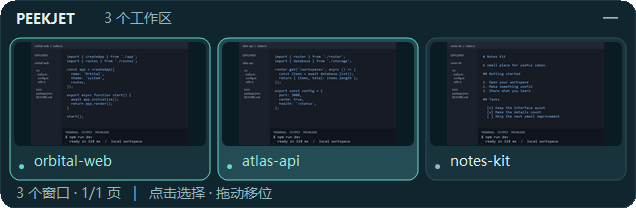
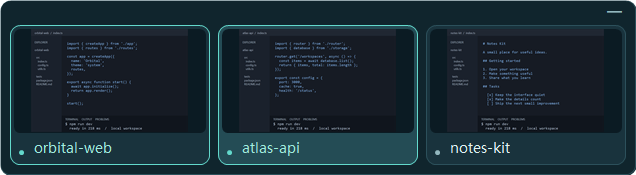
feat: release v0.1.1 with a compact dock and smoother corners

diff --git a/Program.cs b/Program.cs
@@ -188,10 +188,10 @@ namespace PeekJet
         private Rectangle layoutWorkArea;
         private IntPtr followedWindow;
         private float scale = 1f;
+        private bool nativeCorners;
+        internal int CornerRadius { get { return S(nativeCorners ? 8 : 12); } }
         private Rectangle previousButton, nextButton, hideButton;
         private ToolTip tooltip = new ToolTip();
-        private string status = "";
-        private DateTime statusUntil;
         private Icon appIcon;
         private readonly bool testing;
 
@@ -245,10 +245,11 @@ namespace PeekJet
         {
             base.OnHandleCreated(e);
             if (!testing) hotkeyRegistered = Native.RegisterHotKey(Handle, 1, 0x4003, (uint)Keys.V);
-            // The explicit window region owns the corner shape. Do not apply a second,
-            // differently sized DWM rounding pass to the same layered window.
-            int corners = 1;
-            Native.DwmSetWindowAttribute(Handle, 33, ref corners, 4);
+            // A GDI window region is a binary mask and cannot antialias its edge.
+            // Uniform window opacity still allows DWM to composite smooth corners.
+            int corners = 2; // DWMWCP_ROUND (Windows 11).
+            nativeCorners = Native.DwmSetWindowAttribute(Handle, 33, ref corners, 4) == 0;
+            UpdateCornerRegion();
             int dark = palette == null || !palette.Light ? 1 : 0;
             Native.DwmSetWindowAttribute(Handle, 20, ref dark, 4);
             Native.SetClickThrough(Handle, !SelectionEnabled);
@@ -380,8 +381,20 @@ namespace PeekJet
         protected override void OnSizeChanged(EventArgs e)
         {
             base.OnSizeChanged(e);
+            UpdateCornerRegion();
+        }
+        private void UpdateCornerRegion()
+        {
             if (ClientSize.Width < 2 || ClientSize.Height < 2) return;
-            using (var path = ThemeDrawing.Rounded(ClientRectangle, (int)Math.Round(12 * Math.Max(1, scale))))
+            // Setting any region disables the compositor's antialiased corners.
+            if (nativeCorners)
+            {
+                var previous = Region;
+                Region = null;
+                if (previous != null) previous.Dispose();
+                return;
+            }
+            using (var path = ThemeDrawing.Rounded(ClientRectangle, CornerRadius))
             {
                 var previous = Region;
                 Region = new Region(path);
@@ -486,23 +499,28 @@ namespace PeekJet
             layoutWorkArea = area;
             bool vertical = dockEdge == DockEdge.Left || dockEdge == DockEdge.Right;
             int margin = S(8), gap = S(6), width = S(preferredWidth);
-            int headerHeight = S(30), footerHeight = S(22);
+            int headerHeight = S(20), footerHeight = S(8);
             int usable = Math.Max(S(160), area.Width - S(32));
             width = Math.Min(width, usable - 2 * margin);
-            width = Math.Min(width, Math.Max(S(60), (int)((area.Height - S(20) - headerHeight - footerHeight - S(24)) * 16.0 / 9.0)));
+            width = Math.Min(width, Math.Max(S(60), (int)((area.Height - S(20) - headerHeight - footerHeight - S(22)) * 16.0 / 9.0)));
             int previewHeight = (int)(width * 9.0 / 16.0);
-            int tileHeight = previewHeight + S(24);
+            int tileHeight = previewHeight + S(22);
             capacity = vertical ? Math.Max(1, Math.Min(5, (area.Height - S(20) - headerHeight - footerHeight + gap) / (tileHeight + gap))) :
                 Math.Max(1, Math.Min(5, (usable - margin * 2 + gap) / (width + gap)));
+            if (vertical && windows.Count > capacity)
+            {
+                footerHeight = S(22);
+                capacity = Math.Max(1, Math.Min(5, (area.Height - S(20) - headerHeight - footerHeight + gap) / (tileHeight + gap)));
+            }
             int maxPage = Math.Max(0, (windows.Count - 1) / capacity);
             page = Math.Min(page, maxPage);
             int count = Math.Min(capacity, Math.Max(0, windows.Count - page * capacity));
             ClientSize = vertical ? new Size(margin * 2 + width, headerHeight + count * tileHeight + Math.Max(0, count - 1) * gap + footerHeight) :
                 new Size(margin * 2 + count * width + Math.Max(0, count - 1) * gap, headerHeight + tileHeight + footerHeight);
             bool hasPages = windows.Count > capacity;
-            previousButton = !hasPages ? Rectangle.Empty : vertical ? new Rectangle(S(5), Height - footerHeight, S(24), S(22)) : new Rectangle(ClientSize.Width - S(88), S(1), S(24), S(27));
-            nextButton = !hasPages ? Rectangle.Empty : vertical ? new Rectangle(Width - S(29), Height - footerHeight, S(24), S(22)) : new Rectangle(ClientSize.Width - S(60), S(1), S(24), S(27));
-            hideButton = new Rectangle(ClientSize.Width - S(32), S(1), S(24), S(27));
+            previousButton = !hasPages ? Rectangle.Empty : vertical ? new Rectangle(S(5), Height - footerHeight, S(24), S(22)) : new Rectangle(ClientSize.Width - S(76), S(1), S(22), S(18));
+            nextButton = !hasPages ? Rectangle.Empty : vertical ? new Rectangle(Width - S(29), Height - footerHeight, S(24), S(22)) : new Rectangle(ClientSize.Width - S(52), S(1), S(22), S(18));
+            hideButton = new Rectangle(ClientSize.Width - S(28), S(1), S(22), S(18));
             for (int i = 0; i < count; i++)
             {
                 var tile = new PreviewTile { Window = windows[page * capacity + i] };
@@ -782,7 +800,11 @@ namespace PeekJet
             hoveredControl = nextControl;
             hovered = index;
             tooltip.Hide(this);
-            if (index >= 0 && !testing) tooltip.Show(Tiles[index].Window.Title + "\n点击切换到此窗口", this, e.X, e.Y - S(46), 4000);
+            if (!testing)
+            {
+                string detail = index >= 0 ? Tiles[index].Window.Title : nextControl == 0 ? "上一页" : nextControl == 1 ? "下一页" : nextControl == 2 ? "隐藏" : "";
+                if (detail.Length > 0) tooltip.Show(detail, this, e.X, e.Y - S(34), 4000);
+            }
             Invalidate();
         }
         private void OnPointerUp(object sender, MouseEventArgs e)
@@ -799,8 +821,7 @@ namespace PeekJet
             tooltip.Hide(this);
             if (!Windows.Activate(tile.Window.Handle))
             {
-                status = "切换未成功，请重试；管理员窗口可能需要相同权限";
-                statusUntil = DateTime.Now.AddSeconds(5);
+                if (!testing) tooltip.Show("暂时无法切换，请重试", this, e.X, e.Y - S(30), 3000);
             }
             RefreshWindows();
         }
@@ -812,23 +833,13 @@ namespace PeekJet
             g.SmoothingMode = SmoothingMode.AntiAlias;
             g.PixelOffsetMode = PixelOffsetMode.HighQuality;
             if (palette == null) return;
-            ThemeDrawing.Fill(g, ClientRectangle, S(12), palette.Surface);
-            ThemeDrawing.Stroke(g, ClientRectangle, S(12), palette.Border, 1);
-            bool crowdedHeader = windows.Count > capacity && dockEdge != DockEdge.Left && dockEdge != DockEdge.Right && Width < S(270);
-            if (!crowdedHeader)
+            g.Clear(palette.Surface);
+            ThemeDrawing.Stroke(g, ClientRectangle, CornerRadius, palette.Border, 1);
+            if (SelectionEnabled)
             {
-                if (Width >= S(90)) TextRenderer.DrawText(g, Width < S(270) ? "PJ" : "PEEKJET", brandFont, new Rectangle(S(10), S(1), S(60), S(27)), palette.Text, TextFormatFlags.VerticalCenter);
-            }
-            // Leave room for controls even on a narrow, single-card dock.
-            if (Width >= S(320)) TextRenderer.DrawText(g, windows.Count + " 个工作区", smallFont, new Rectangle(S(80), S(2), S(90), S(25)), palette.Muted, TextFormatFlags.VerticalCenter);
-            DrawButton(g, previousButton, "\uE76B", page > 0, 0);
-            DrawButton(g, nextButton, "\uE76C", (page + 1) * capacity < windows.Count, 1);
-            DrawButton(g, hideButton, "\uE921", true, 2);
-            if (windows.Count == 0)
-            {
-                TextRenderer.DrawText(g, "等待 VS Code 窗口", titleFont, new Rectangle(S(20), S(59), Width - S(40), S(25)), palette.Text, TextFormatFlags.HorizontalCenter);
-                TextRenderer.DrawText(g, "打开多个工作区以开始预览", smallFont, new Rectangle(S(14), S(93), Width - S(28), S(24)), palette.Muted, TextFormatFlags.HorizontalCenter | TextFormatFlags.EndEllipsis);
-                return;
+                DrawButton(g, previousButton, "\uE76B", page > 0, 0);
+                DrawButton(g, nextButton, "\uE76C", (page + 1) * capacity < windows.Count, 1);
+                DrawButton(g, hideButton, "\uE921", true, 2);
             }
             for (int i = 0; i < Tiles.Count; i++)
             {
@@ -847,19 +858,28 @@ namespace PeekJet
                     g.DrawImage(tile.ExampleImage, new Rectangle(tile.Preview.X + (tile.Preview.Width - imageWidth) / 2, tile.Preview.Y + (tile.Preview.Height - imageHeight) / 2, imageWidth, imageHeight));
                 }
                 else if (tile.Thumbnail == IntPtr.Zero)
-                    TextRenderer.DrawText(g, "暂时无法预览", smallFont, tile.Preview, palette.Muted, TextFormatFlags.HorizontalCenter | TextFormatFlags.VerticalCenter | TextFormatFlags.EndEllipsis);
+                    TextRenderer.DrawText(g, "\uE91B", iconFont, tile.Preview, palette.Muted, TextFormatFlags.HorizontalCenter | TextFormatFlags.VerticalCenter);
                 string title = tile.Window.ProjectName;
-                using (var brush = new SolidBrush(focused ? palette.Accent : palette.Muted))
-                    g.FillEllipse(brush, tile.Bounds.X + S(7), tile.Bounds.Bottom - S(13), S(4), S(4));
+                if (tile.Window.Minimized)
+                {
+                    using (var pen = new Pen(palette.Muted)) g.DrawEllipse(pen, tile.Bounds.X + S(7), tile.Bounds.Bottom - S(12), S(4), S(4));
+                }
+                else using (var brush = new SolidBrush(focused ? palette.Accent : palette.Muted))
+                    g.FillEllipse(brush, tile.Bounds.X + S(7), tile.Bounds.Bottom - S(12), S(4), S(4));
                 var label = new Rectangle(tile.Bounds.X + S(16), tile.Preview.Bottom + S(2), tile.Bounds.Width - S(22), S(20));
-                if (tile.Window.Minimized) { title = "[已最小化] " + title; }
                 TextRenderer.DrawText(g, title, titleFont, label, focused ? palette.AccentText : palette.Text, TextFormatFlags.EndEllipsis | TextFormatFlags.VerticalCenter | TextFormatFlags.SingleLine | TextFormatFlags.NoPrefix);
             }
             bool vertical = dockEdge == DockEdge.Left || dockEdge == DockEdge.Right;
-            string hint = Width < S(200) ? (SelectionEnabled ? "点击 / 拖动" : "停稳 250ms") : (SelectionEnabled ? "点击选择 · 拖动移位" : "停稳 0.25 秒可选择");
-            string footer = DateTime.Now < statusUntil ? status : Width < S(400) ? hint : string.Format("{0} 个窗口 · {1}/{2} 页   |   {3}", windows.Count, page + 1, Math.Max(1, (windows.Count + capacity - 1) / capacity), hint);
-            if (vertical && windows.Count > capacity) footer = string.Format("{0}/{1}", page + 1, (windows.Count + capacity - 1) / capacity);
-            TextRenderer.DrawText(g, footer, smallFont, new Rectangle(vertical && windows.Count > capacity ? S(30) : S(10), Height - S(22), Width - (vertical && windows.Count > capacity ? S(60) : S(20)), S(20)), palette.Muted, TextFormatFlags.EndEllipsis | TextFormatFlags.VerticalCenter | (vertical ? TextFormatFlags.HorizontalCenter : TextFormatFlags.Default));
+            int pages = (windows.Count + capacity - 1) / capacity;
+            if (pages > 1)
+            {
+                int dots = Math.Min(7, pages), startPage = Math.Max(0, Math.Min(page - dots / 2, pages - dots));
+                int startX = (Width - dots * S(7) + S(3)) / 2;
+                int dotY = vertical ? Height - S(12) : Height - S(5);
+                for (int i = 0; i < dots; i++)
+                    using (var brush = new SolidBrush(startPage + i == page ? palette.Accent : palette.Border))
+                        g.FillEllipse(brush, startX + i * S(7), dotY, S(3), S(3));
+            }
             if (!SelectionEnabled && hoverStarted >= 0)
             {
                 int progress = (int)((Width - S(24)) * Math.Min(1.0, (double)hoverElapsed / HoverDelayMilliseconds));

diff --git a/ThemeGallery.cs b/ThemeGallery.cs
@@ -50,14 +50,21 @@ namespace PeekJet
                         using (var screenshot = new Bitmap(dock.Width, dock.Height))
                         {
                             dock.DrawToBitmap(screenshot, new Rectangle(Point.Empty, dock.Size));
-                            using (var g = Graphics.FromImage(screenshot))
-                            using (var shape = dock.Region.Clone())
-                            using (var corners = new Region(new Rectangle(Point.Empty, dock.Size)))
+                            // DrawToBitmap does not include the DWM corner mask. Apply
+                            // fractional edge coverage instead of a jagged GDI region.
+                            using (var mask = new Bitmap(dock.Width, dock.Height))
                             {
-                                corners.Exclude(shape);
-                                g.SetClip(corners, System.Drawing.Drawing2D.CombineMode.Replace);
-                                g.CompositingMode = System.Drawing.Drawing2D.CompositingMode.SourceCopy;
-                                using (var transparent = new SolidBrush(Color.Transparent)) g.FillRectangle(transparent, new Rectangle(Point.Empty, dock.Size));
+                                using (var g = Graphics.FromImage(mask))
+                                {
+                                    g.SmoothingMode = System.Drawing.Drawing2D.SmoothingMode.AntiAlias;
+                                    ThemeDrawing.Fill(g, new Rectangle(Point.Empty, dock.Size), dock.CornerRadius, Color.White);
+                                }
+                                for (int y = 0; y < screenshot.Height; y++)
+                                    for (int x = 0; x < screenshot.Width; x++)
+                                    {
+                                        int alpha = mask.GetPixel(x, y).A;
+                                        if (alpha < 255) screenshot.SetPixel(x, y, Color.FromArgb(alpha, screenshot.GetPixel(x, y)));
+                                    }
                             }
                             screenshot.Save(Path.Combine(output, theme.Id + ".png"));
                         }

diff --git a/Themes.cs b/Themes.cs
@@ -55,8 +55,12 @@ namespace PeekJet
     {
         internal static GraphicsPath Rounded(Rectangle bounds, int radius)
         {
+            return Rounded((RectangleF)bounds, radius);
+        }
+        internal static GraphicsPath Rounded(RectangleF bounds, float radius)
+        {
             var path = new GraphicsPath();
-            int diameter = Math.Max(2, Math.Min(radius * 2, Math.Min(bounds.Width, bounds.Height)));
+            float diameter = Math.Max(2, Math.Min(radius * 2, Math.Min(bounds.Width, bounds.Height)));
             path.AddArc(bounds.Left, bounds.Top, diameter, diameter, 180, 90);
             path.AddArc(bounds.Right - diameter, bounds.Top, diameter, diameter, 270, 90);
             path.AddArc(bounds.Right - diameter, bounds.Bottom - diameter, diameter, diameter, 0, 90);
@@ -71,10 +75,13 @@ namespace PeekJet
         }
         internal static void Stroke(Graphics graphics, Rectangle bounds, int radius, Color color, float width)
         {
-            using (var path = Rounded(bounds, radius))
+            // Center the stroke on pixel centers and keep its full coverage inside
+            // the card. Inset pen alignment is unreliable on antialiased curves.
+            var inset = new RectangleF(bounds.X + width / 2, bounds.Y + width / 2,
+                bounds.Width - width, bounds.Height - width);
+            using (var path = Rounded(inset, Math.Max(1, radius - width / 2)))
             using (var pen = new Pen(color, width))
             {
-                pen.Alignment = PenAlignment.Inset;
                 graphics.DrawPath(pen, path);
             }
         }

diff --git a/AssemblyInfo.cs b/AssemblyInfo.cs
@@ -7,5 +7,5 @@ using System.Runtime.InteropServices;
 [assembly: AssemblyProduct("PeekJet")]
 [assembly: AssemblyCopyright("Copyright 2026 PeekJet contributors")]
 [assembly: ComVisible(false)]
-[assembly: AssemblyVersion("0.1.0.0")]
-[assembly: AssemblyFileVersion("0.1.0.0")]
+[assembly: AssemblyVersion("0.1.1.0")]
+[assembly: AssemblyFileVersion("0.1.1.0")]

diff --git a/README.en.md b/README.en.md
@@ -49,7 +49,7 @@ The release also includes a source archive and `SHA256SUMS.txt`. To uninstall, q
 | Right-click the tray or an activated dock | Open settings |
 | `Ctrl + Alt + V` or a tray click | Toggle visibility or recall an avoided dock |
 
-The dock has no settings button. Use the context menu for appearance, size, screen, dock edge and typing avoidance; use the tray menu to quit. The top-right minus button hides the dock manually.
+The compact dock keeps previews and project names, with full window titles available on hover. Dots indicate pages; arrows and the top-right hide button appear only while activated. Use the context menu for appearance, size, screen, dock edge and typing avoidance; use the tray menu to quit.
 
 Switching workspaces keeps the dock visible. It hides when only zero or one window remains and returns when multiple windows are available. An explicit manual hide is respected until you recall it.
 

diff --git a/CHANGELOG.md b/CHANGELOG.md
@@ -1,7 +1,12 @@
 # Changelog
 
-## Unreleased
+## 0.1.1 — 2026-11-12
 
+- Simplify the dock to previews and project names, removing the wordmark, window count and footer hints.
+- Reduce panel height, use dots for page indicators, and show navigation/hide controls only while activated.
+- Use antialiased Windows 11 compositor corners, with a rounded-region fallback on older Windows.
+- Align card and panel border strokes inside their bounds to reduce edge artifacts across themes.
+- Refresh the theme gallery using synthetic workspaces and fractional corner coverage.
 - Clean up the upper-left header decoration and unify rounded window/border geometry.
 - Remove the settings button from the dock; settings remain in the tray and dock context menus.
 - Reorganize Chinese and English READMEs with release downloads, usage, build, privacy and contribution sections.

diff --git a/README.md b/README.md
@@ -58,7 +58,7 @@
 | 激活后右键面板 | 打开同一套设置菜单 |
 | `Ctrl + Alt + V` / 单击托盘图标 | 显示、隐藏或唤回预览 |
 
-面板不放置设置按钮，保持界面简洁；主题、停靠边缘、大小、显示器和输入避让均在右键菜单中调整。右上角横线可手动隐藏。
+面板仅保留预览和项目名，完整窗口标题在悬停时显示；翻页用小圆点标识，箭头和右上角隐藏横线仅在激活后出现。主题、停靠边缘、大小、显示器和输入避让均在右键菜单中调整。
 
 多个窗口时点击切换不会隐藏面板；只剩一个或全部关闭时自动隐藏，重新打开多个窗口后恢复。手动隐藏会保留到下一次主动显示。重复启动只会唤回现有实例。
 
